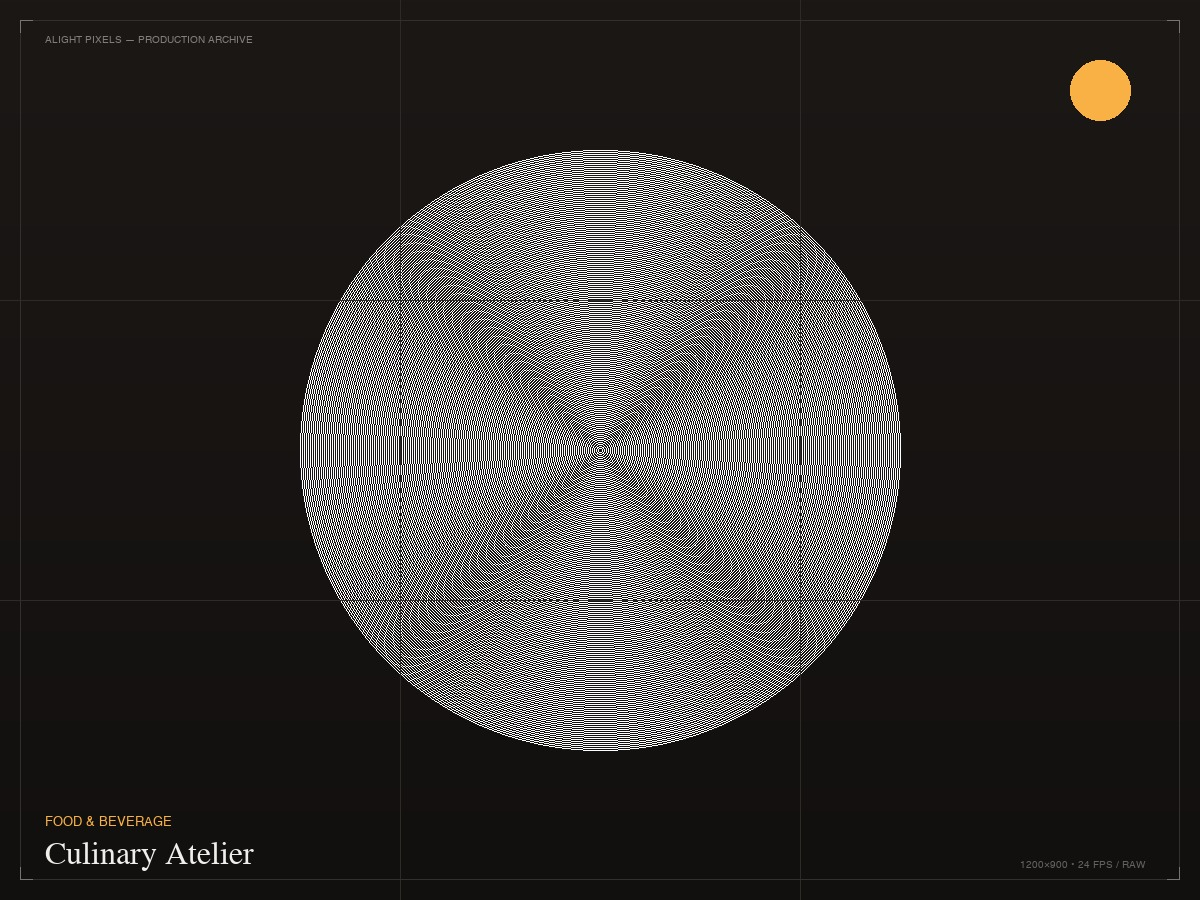
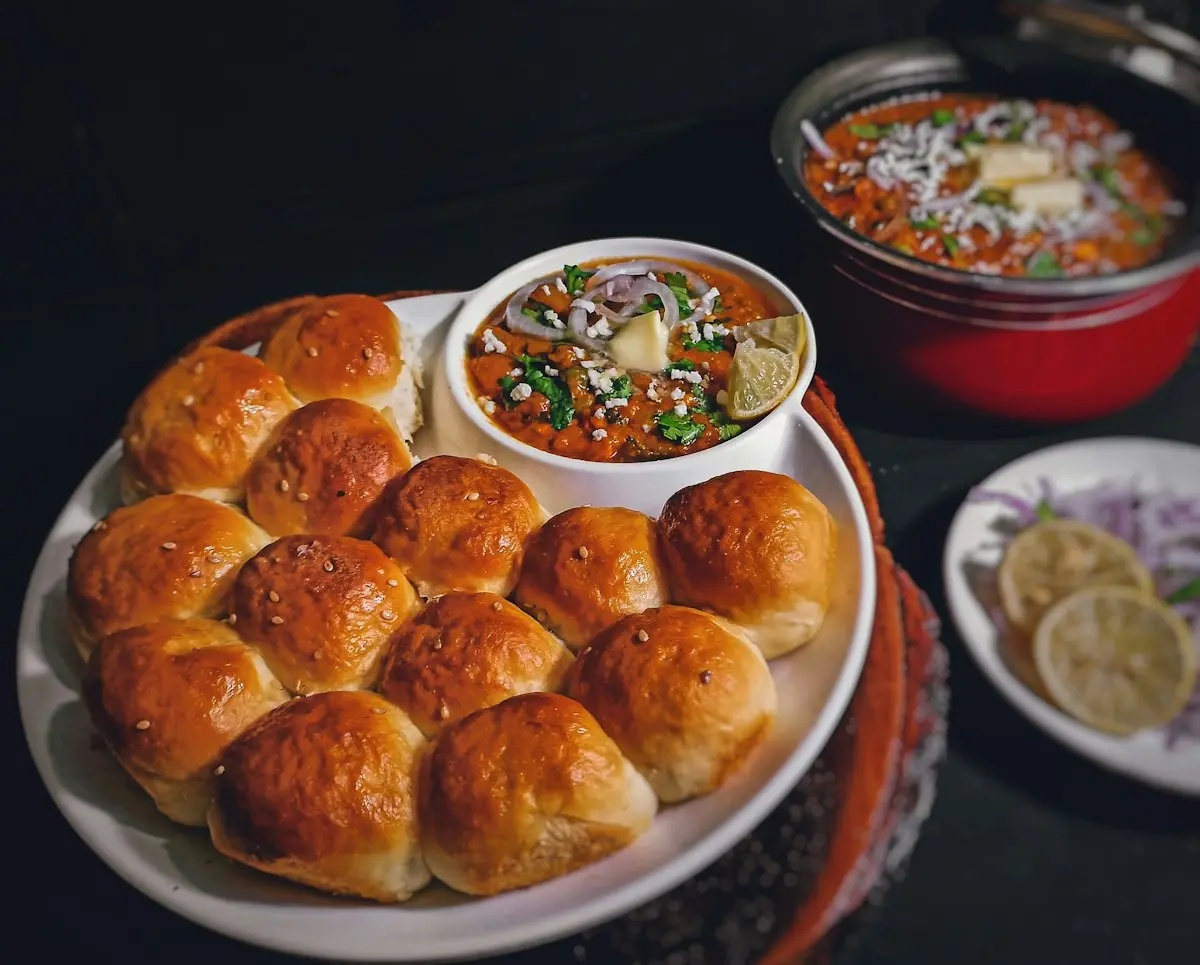
Replace circular wireframe placeholders with authentic photography and video thumbnails across portfolio cards

diff --git a/src/components/SelectedWork.jsx b/src/components/SelectedWork.jsx
@@ -11,8 +11,8 @@ export const SHOWCASE_ITEMS = [
     aspect: 'aspect-portrait',
     column: 1,
     mediaType: 'image',
-    src: '/assets/images/portfolio/food-beverage-01.jpg',
-    thumbnail: '/assets/images/portfolio/food-beverage-01.jpg',
+    src: '/assets/images/portfolio/cafe-brand-story.jpg',
+    thumbnail: '/assets/images/portfolio/cafe-brand-story.jpg',
     description: 'Artisanal single-origin roasting, natural morning diffusion, and culinary warmth captured for hospitality branding.'
   },
   {
@@ -62,7 +62,7 @@ export const SHOWCASE_ITEMS = [
     column: 2,
     mediaType: 'video',
     src: '/assets/videos/car-delivery.mp4',
-    poster: '/assets/images/about/bts-camera-rig.jpg',
+    poster: '/assets/images/portfolio/fitness-campaign.jpg',
     description: 'Raw kinetic movement, high-energy lighting, and performance-driven commercial cinematography.'
   },
   {
@@ -74,7 +74,7 @@ export const SHOWCASE_ITEMS = [
     column: 2,
     mediaType: 'video',
     src: '/assets/videos/instagram-reel-analytics.mp4',
-    poster: '/assets/images/portfolio/digital-content-poster.jpg',
+    poster: '/assets/images/portfolio/reels-convert-poster.jpg',
     description: 'Engineered for organic reach and high audience retention with motion graphics and viral pacing.'
   },
 
